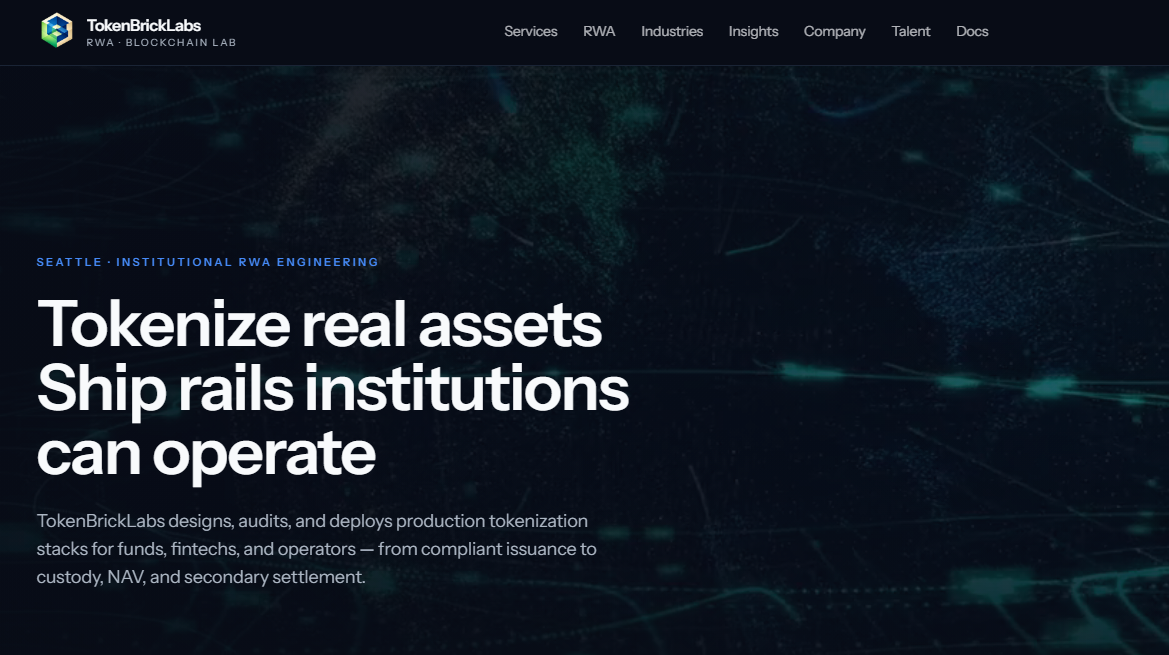
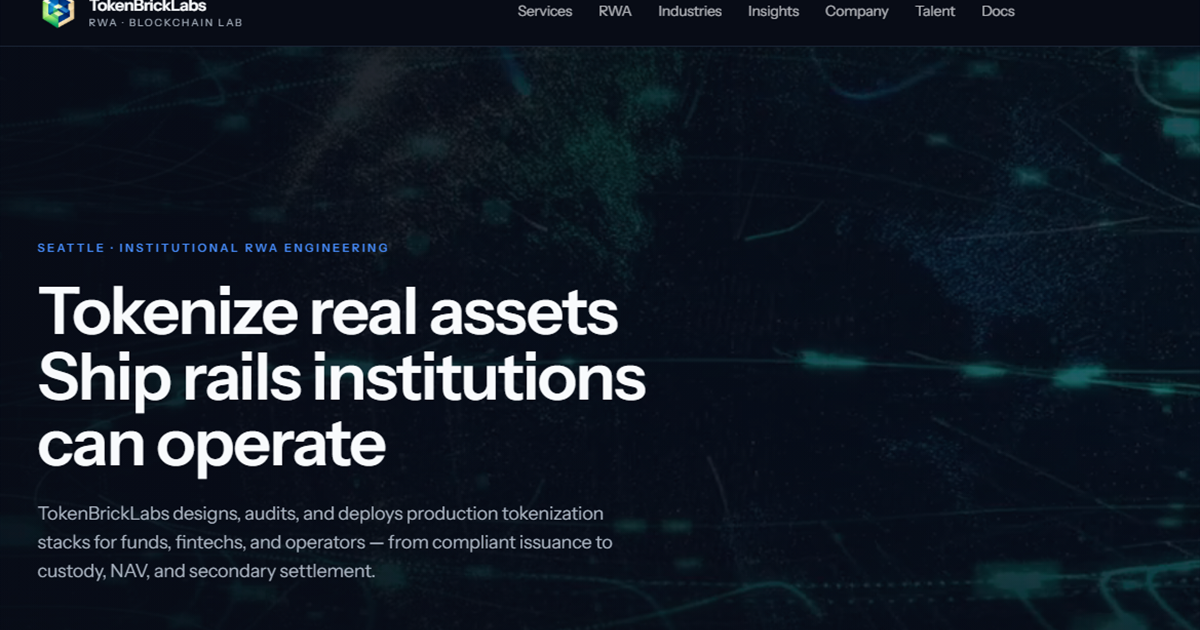
add og image

diff --git a/index.html b/index.html
@@ -12,9 +12,9 @@
     <meta property="og:type" content="website" />
     <meta property="og:url" content="https://www.tokenbricklabs.com/" />
     <meta property="og:site_name" content="TokenBrickLabs" />
-    <meta property="og:image" content="https://www.tokenbricklabs.com/og-image.png" />
-    <meta property="og:image:secure_url" content="https://www.tokenbricklabs.com/og-image.png" />
-    <meta property="og:image:type" content="image/png" />
+    <meta property="og:image" content="https://www.tokenbricklabs.com/og-image.jpg" />
+    <meta property="og:image:secure_url" content="https://www.tokenbricklabs.com/og-image.jpg" />
+    <meta property="og:image:type" content="image/jpeg" />
     <meta property="og:image:width" content="1200" />
     <meta property="og:image:height" content="630" />
     <meta property="og:image:alt" content="TokenBrickLabs — RWA tokenization and blockchain development" />
@@ -22,7 +22,7 @@
     <meta name="twitter:card" content="summary_large_image" />
     <meta name="twitter:title" content="TokenBrickLabs — RWA Tokenization & Blockchain Development" />
     <meta name="twitter:description" content="From smart contracts to tokenized funds — we engineer the bridge between real-world assets and on-chain markets." />
-    <meta name="twitter:image" content="https://www.tokenbricklabs.com/og-image.png" />
+    <meta name="twitter:image" content="https://www.tokenbricklabs.com/og-image.jpg" />
     <meta name="twitter:image:alt" content="TokenBrickLabs — RWA tokenization and blockchain development" />
 
     <meta name="theme-color" content="#0b1220" />
